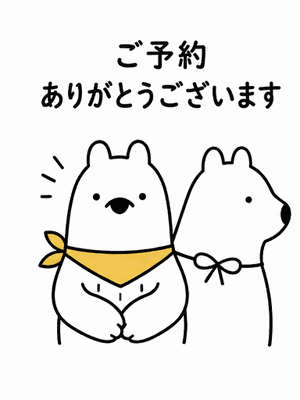
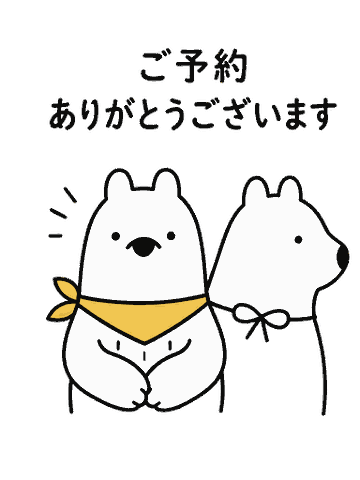
stamps: transparent + frameless

diff --git a/operator.html b/operator.html
@@ -1893,6 +1893,13 @@ function attachHtml_(attachments){
     return '<a href="'+u+'" target="_blank" rel="noopener" style="display:inline-block;margin-top:6px;text-decoration:underline;">📎 '+esc_(a.name||"ファイル")+'</a>';
   }).join("");
 }
+// スタンプ判定：画像1枚でURLが /images/stamps/ を含むならそのURL（枠なし表示用）
+function stampUrl_(attachments){
+  var arr=attachments;
+  if(typeof arr==="string"){ try{arr=JSON.parse(arr);}catch(e){return null;} }
+  if(Array.isArray(arr) && arr.length===1 && arr[0] && arr[0].type==="image" && String(arr[0].url||"").indexOf("/images/stamps/")!==-1) return arr[0].url;
+  return null;
+}
 function appendMsg_(senderType, body, createdAt, attachments, senderId, mid, retracted){
   var side = senderType==="staff" ? "staff" : (senderType==="system" ? "system" : "customer");
   var isAuto = senderType==="staff" && senderId==="AI自動";
@@ -1910,8 +1917,15 @@ function appendMsg_(senderType, body, createdAt, attachments, senderId, mid, ret
   var badge = isAuto ? '<span style="display:inline-block;background:#ede9fe;color:#7c3aed;font-size:10px;font-weight:700;border-radius:4px;padding:1px 5px;margin-bottom:3px;">AI自動</span> ' : '';
   // スタッフ自身の送信メッセージには取り消しボタンを表示
   var undo = (senderType==="staff" && mid) ? '<button onclick="retractMsg_('+mid+')" title="送信を取り消す" style="margin-left:8px;font-size:11px;color:#b91c1c;background:none;border:none;cursor:pointer;padding:0;">取り消し</button>' : '';
-  row.innerHTML='<div class="bubble">'+badge+linkify_(body||"")+media+'</div>'
-    +'<div class="rmeta">'+who+(createdAt?(who?" ・ ":"")+fmtTime_(createdAt):"")+undo+'</div>';
+  var su=stampUrl_(attachments);
+  if (su && !String(body||"").trim()){
+    // スタンプは吹き出しなしで表示
+    row.innerHTML='<img src="'+esc_(su)+'" alt="スタンプ" style="width:140px;max-width:60%;display:block;">'
+      +'<div class="rmeta">'+who+(createdAt?(who?" ・ ":"")+fmtTime_(createdAt):"")+undo+'</div>';
+  } else {
+    row.innerHTML='<div class="bubble">'+badge+linkify_(body||"")+media+'</div>'
+      +'<div class="rmeta">'+who+(createdAt?(who?" ・ ":"")+fmtTime_(createdAt):"")+undo+'</div>';
+  }
   document.getElementById("msgs").appendChild(row);
   if (senderType==="staff"){ lastStaffRow=row; lastStaffAt=createdAt||Date.now(); updateReceipt_(); }
   if (senderType==="customer" && body){ convHint_=(convHint_+" "+String(body)).toLowerCase().slice(-600); }

diff --git a/cleaner.html b/cleaner.html
@@ -392,6 +392,11 @@ function append_(sender, text, ts, attachments, mid, retracted){
   if (mid) row.setAttribute("data-mid", mid);
   var bub=document.createElement("div"); bub.className="bubble";
   if (retracted){ bub.innerHTML="メッセージが取り消されました"; bub.style.fontStyle="italic"; bub.style.color="#94a3b8"; bub.style.background="#f1f5f9"; row.appendChild(bub); msgs.appendChild(row); return; }
+  var su=stampUrl_(attachments);
+  if (su && !String(text||"").trim()){
+    var sImg=document.createElement("img"); sImg.src=su; sImg.alt="スタンプ"; sImg.style.cssText="width:140px;max-width:60%;display:block;";
+    row.appendChild(sImg); msgs.appendChild(row); return;
+  }
   if (text) bub.innerHTML=linkify_(text);
   if (attachments){ var arr=attachments; if (typeof arr==="string"){ try{arr=JSON.parse(arr);}catch(e){arr=[];} }
     (arr||[]).forEach(function(a){
@@ -401,6 +406,12 @@ function append_(sender, text, ts, attachments, mid, retracted){
     });
   }
   row.appendChild(bub); msgs.appendChild(row);
+}
+function stampUrl_(attachments){
+  var arr=attachments;
+  if(typeof arr==="string"){ try{arr=JSON.parse(arr);}catch(e){return null;} }
+  if(Array.isArray(arr) && arr.length===1 && arr[0] && arr[0].type==="image" && String(arr[0].url||"").indexOf("/images/stamps/")!==-1) return arr[0].url;
+  return null;
 }
 function markRetracted_(mid){
   if (!mid) return;

diff --git a/liff.html b/liff.html
@@ -755,9 +755,21 @@ function append_(senderType, body, createdAt, attachments, mid, retracted){
     document.getElementById("msgs").appendChild(row);
     return;
   }
+  var su=stampUrl_(attachments);
+  if (su && !String(body||"").trim()){
+    row.innerHTML='<img src="'+esc_(su)+'" alt="スタンプ" style="width:140px;max-width:60%;display:block;">'+metaHtml;
+    document.getElementById("msgs").appendChild(row);
+    return;
+  }
   var media=attachHtml_(attachments);
   row.innerHTML='<div class="bubble">'+linkify_(body||"")+media+'</div>'+metaHtml;
   document.getElementById("msgs").appendChild(row);
+}
+function stampUrl_(attachments){
+  var arr=attachments;
+  if(typeof arr==="string"){ try{arr=JSON.parse(arr);}catch(e){return null;} }
+  if(Array.isArray(arr) && arr.length===1 && arr[0] && arr[0].type==="image" && String(arr[0].url||"").indexOf("/images/stamps/")!==-1) return arr[0].url;
+  return null;
 }
 function markRetracted_(mid){
   if (!mid) return;
